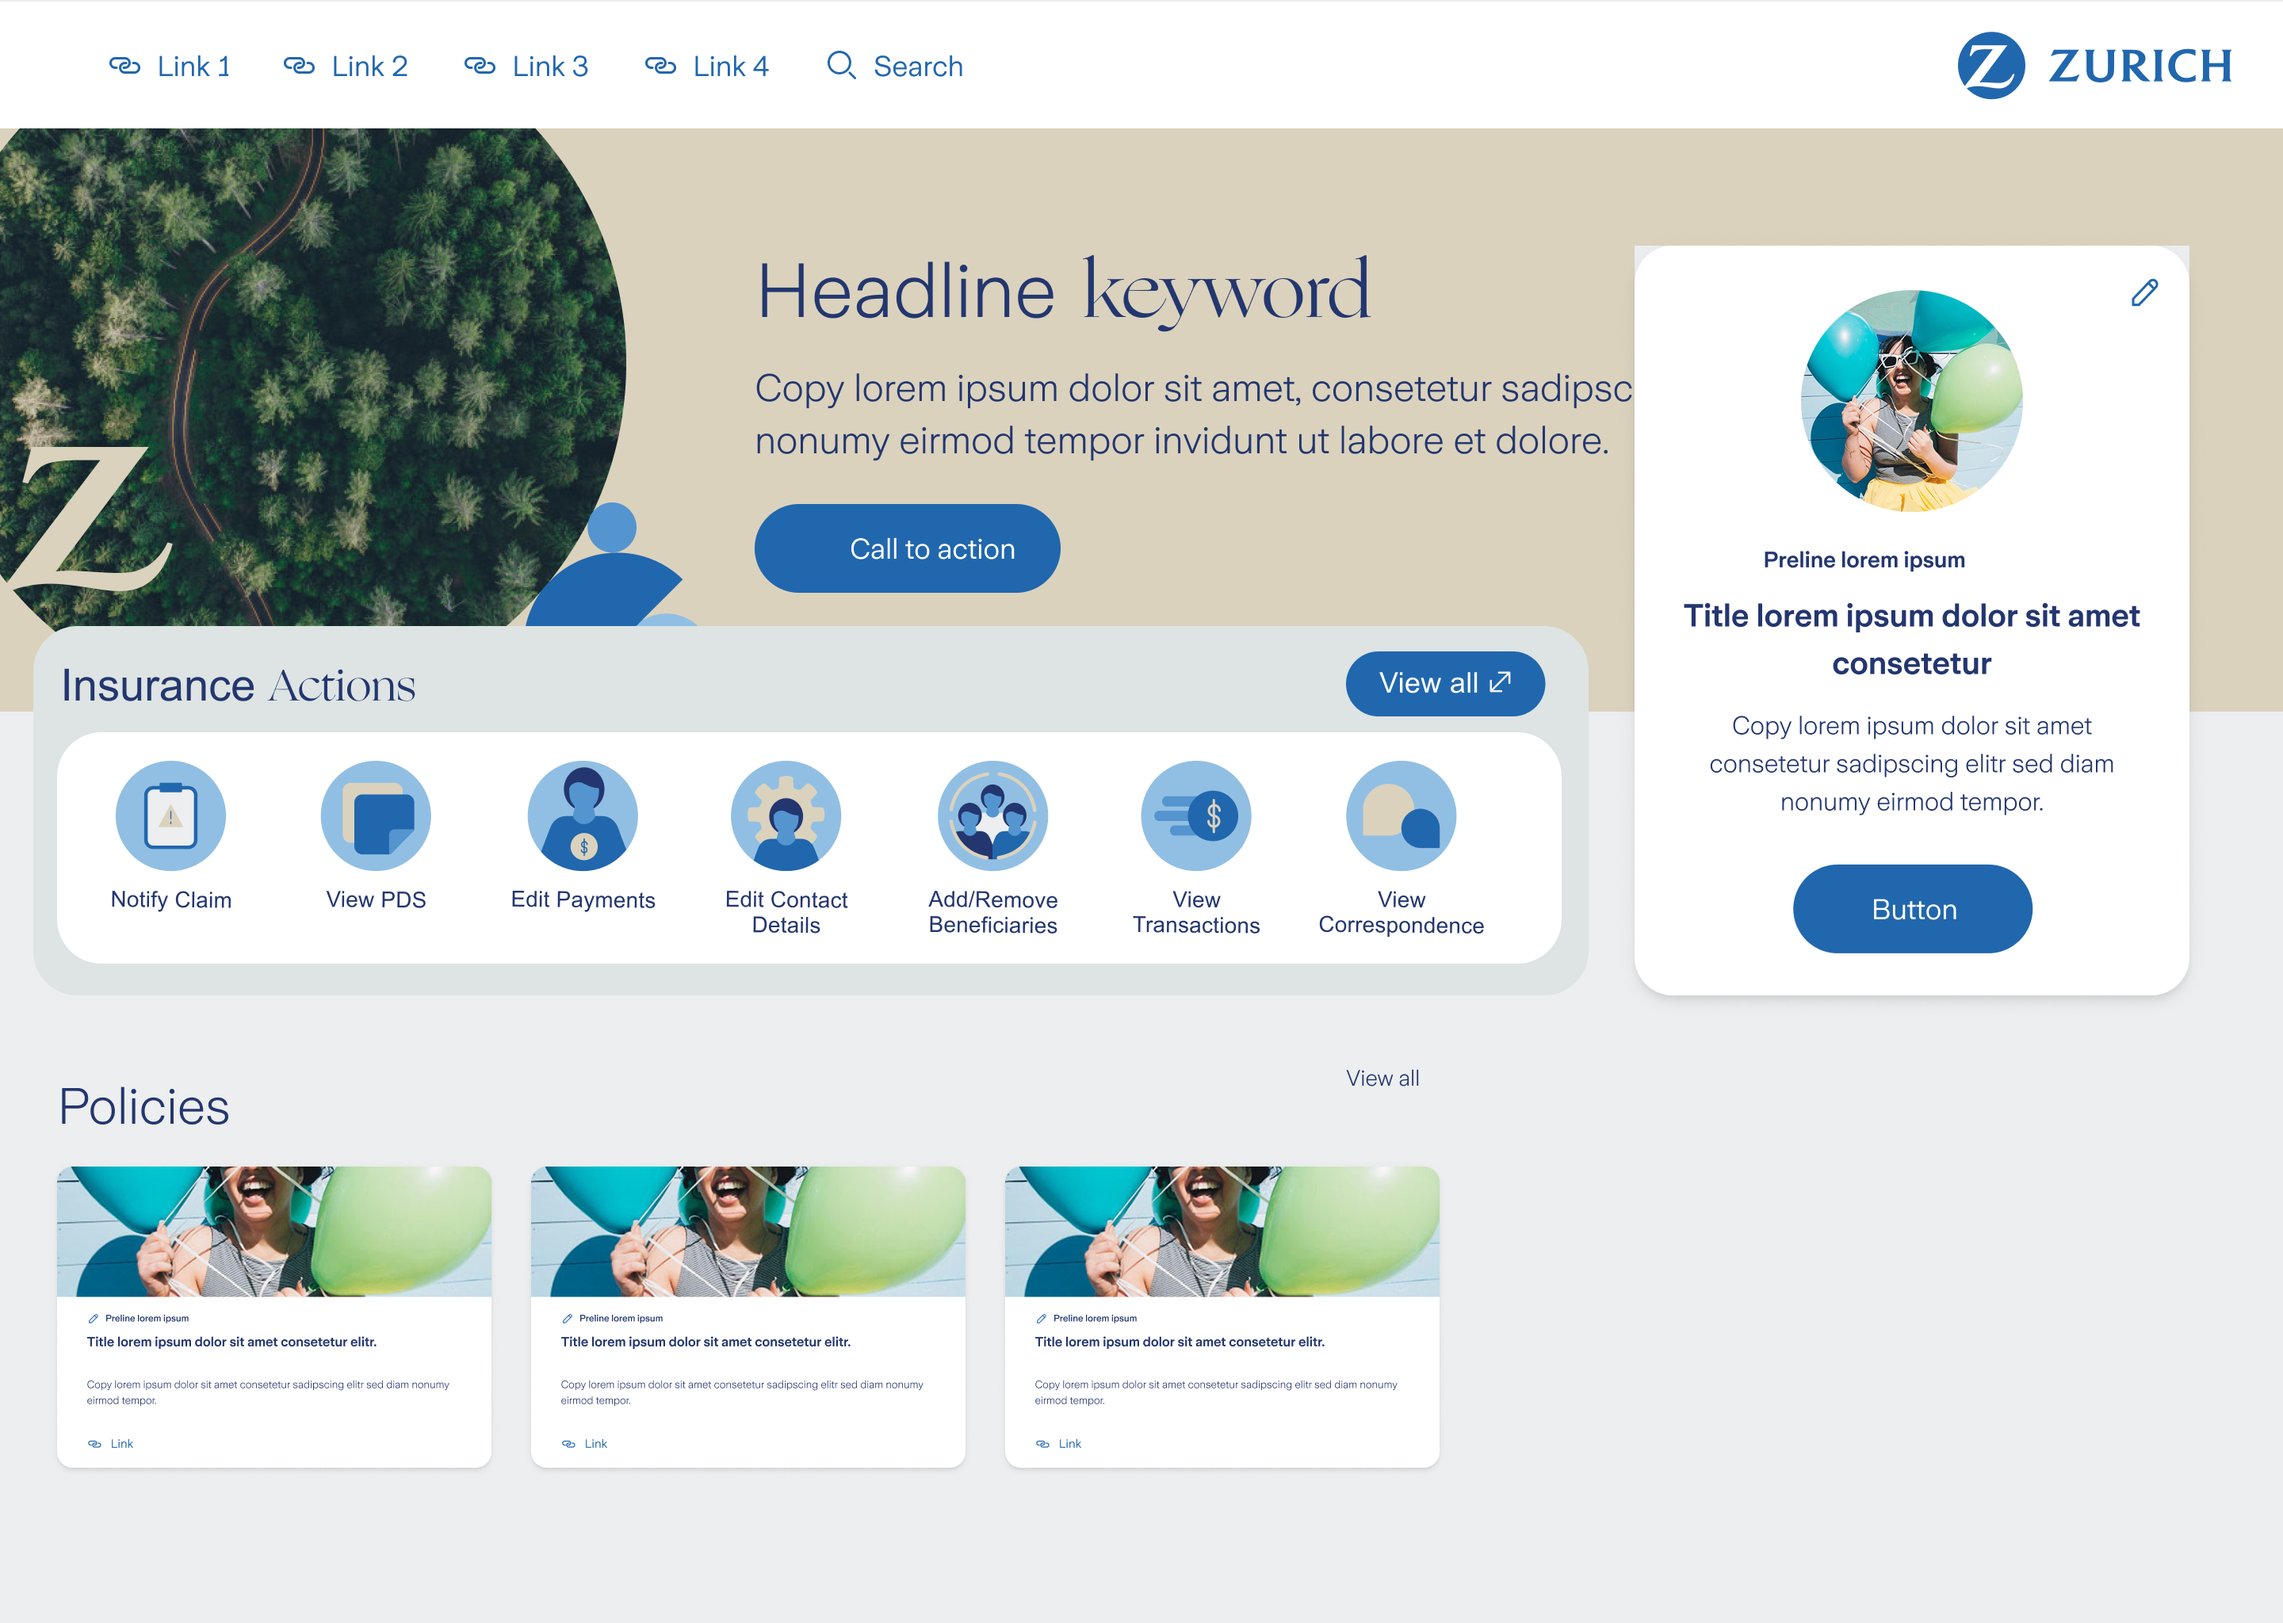
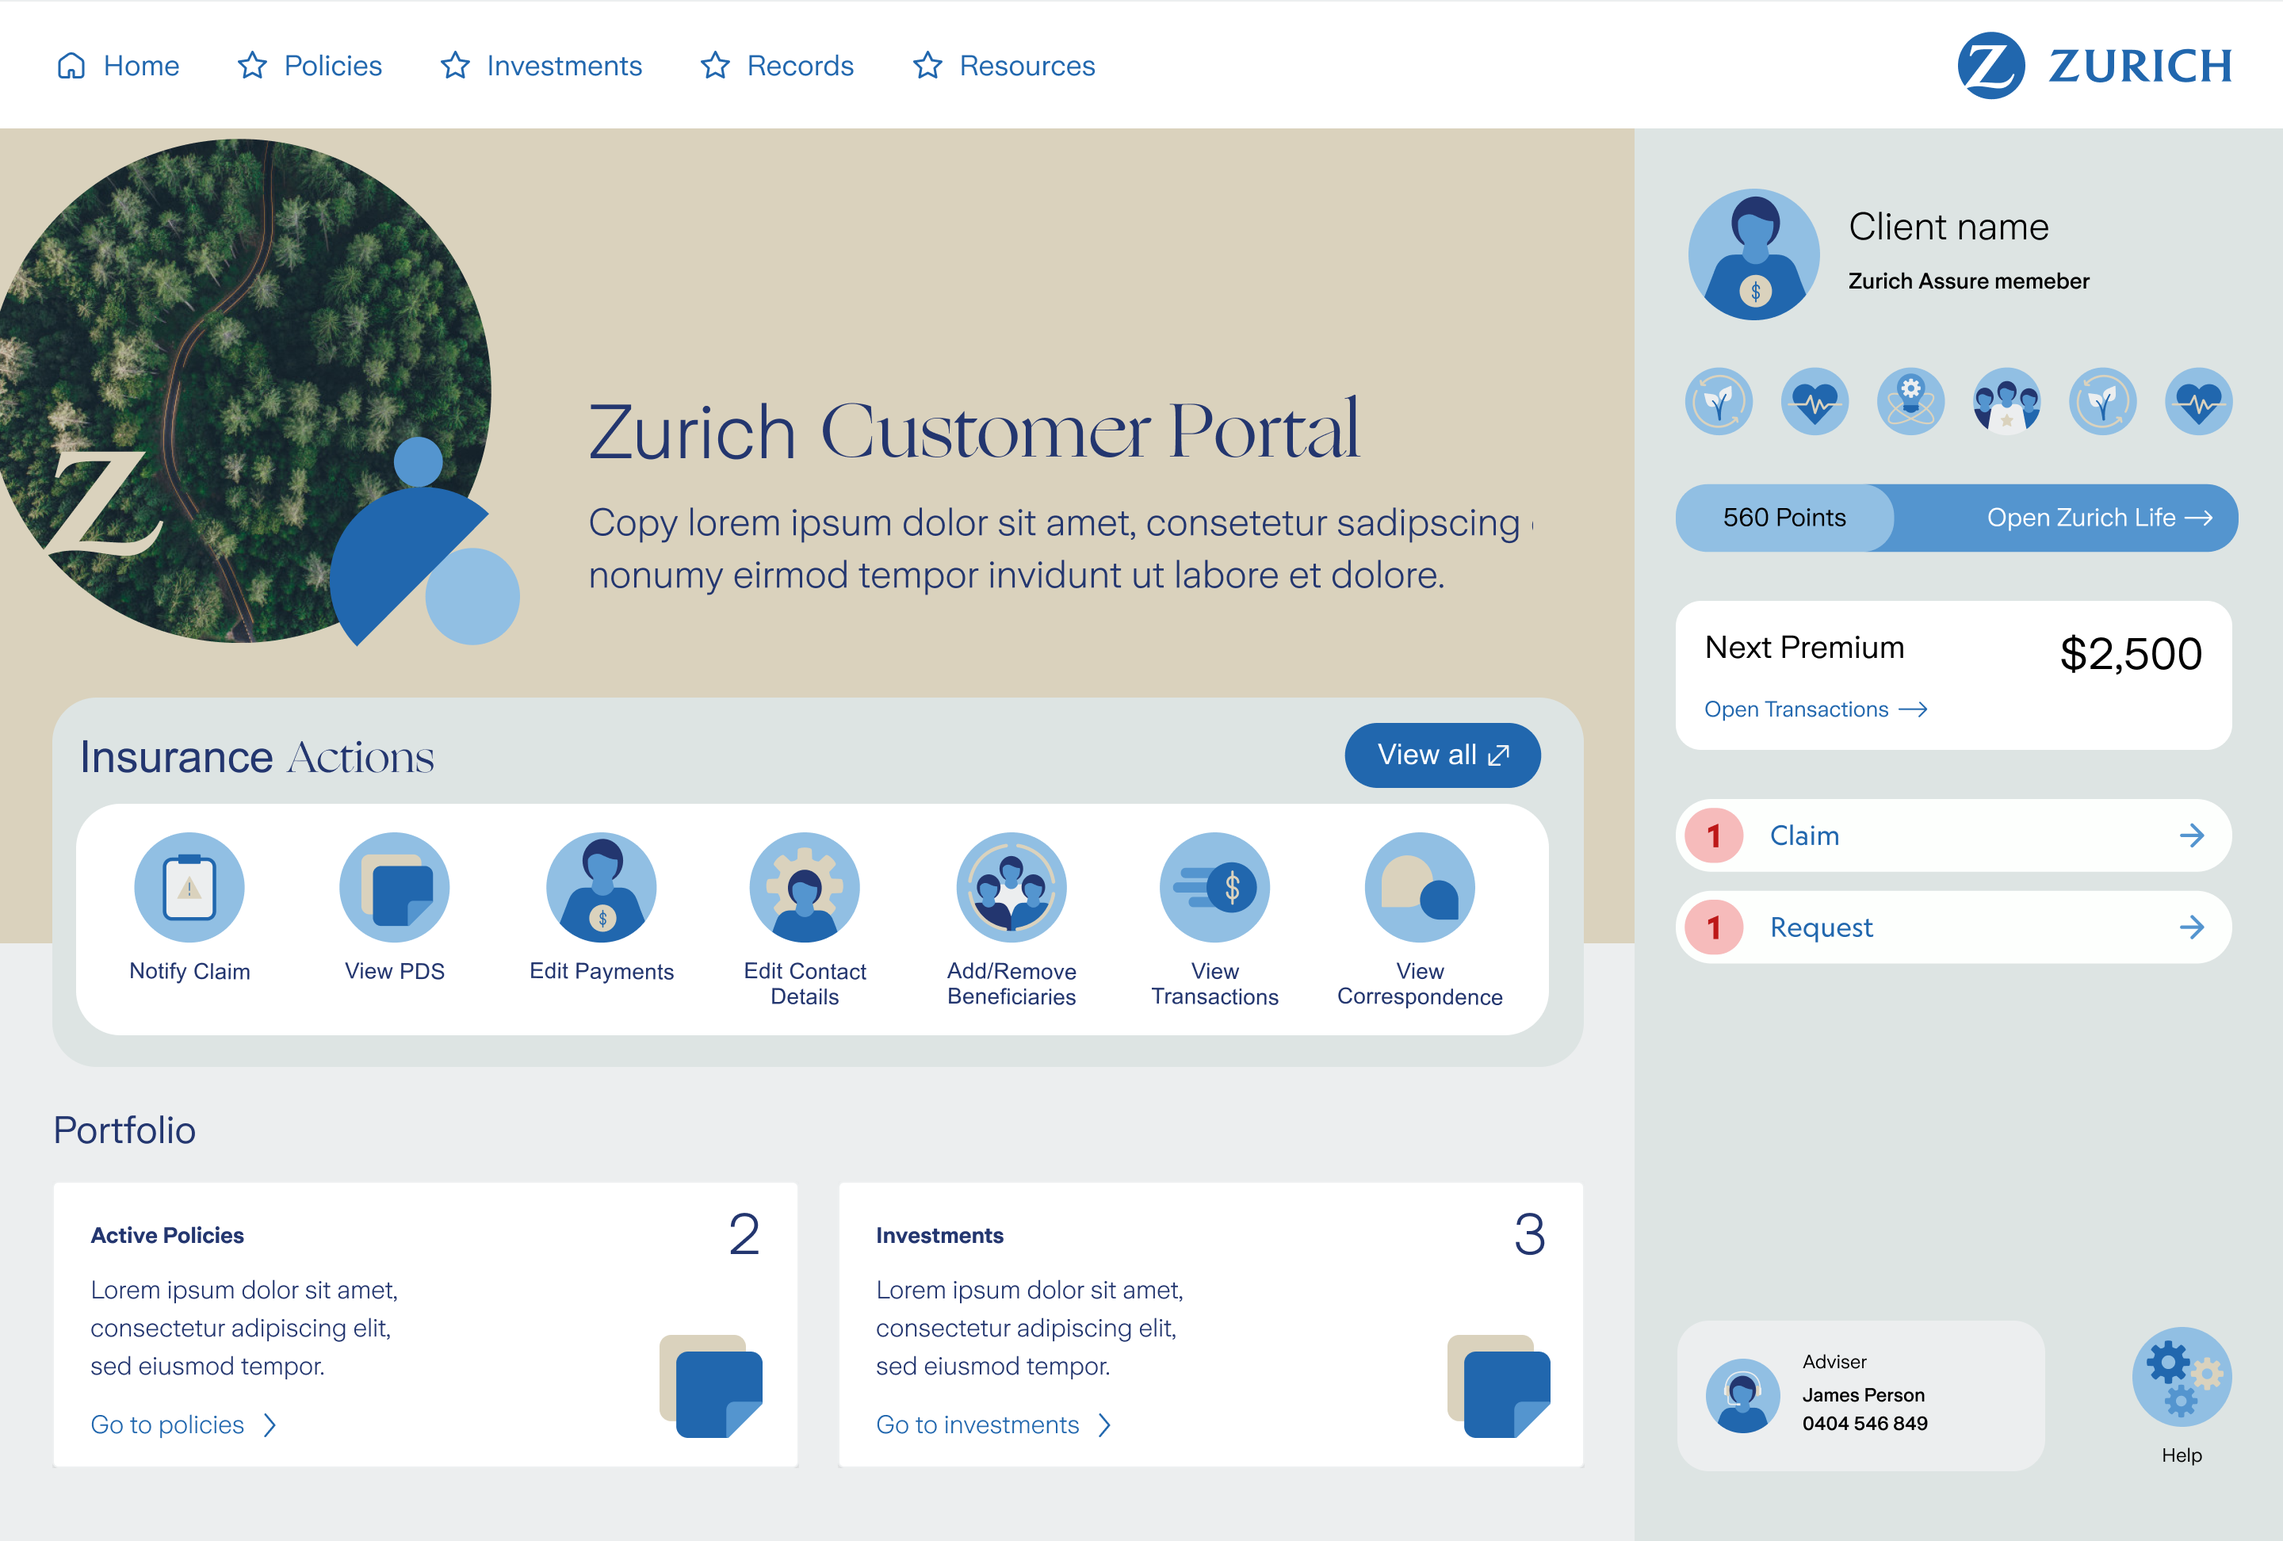
Update Zurich portal visuals and reorder homepage work grid.
Replace the client portal mockup with the full-resolution concept, preserve its aspect ratio on grid and gallery views, and swap Migrate with Recertifications plus Recycle Assist with Insurance Dashboard.

diff --git a/index.html b/index.html
@@ -50,7 +50,7 @@
  <section class="work" id="work">
  <div class="work__inner">
 
- <a href="work/recertifications/index.html" class="block block--case-study reveal" data-hover-color="#6f56cc">
+ <a href="work/zilo-migrate/index.html" class="block block--case-study reveal" data-hover-color="#6f56cc">
  <div class="block__meta">
  <span class="block__label">ZILO · Migrate</span>
  <span class="block__type">Case study</span>
@@ -58,14 +58,14 @@
  <div class="block__body">
  <div class="block__media">
  <div class="block__frame block__frame--case block__frame--swap">
- <img class="block__frame__img block__frame__img--default" src="images/work-grid/recertifications.png" alt="User Recertifications, user management dashboard">
- <img class="block__frame__img block__frame__img--hover" src="images/work-grid/hover/recertifications.png" alt="" aria-hidden="true">
+ <img class="block__frame__img block__frame__img--default" src="images/work-grid/zilo-migrate.png" alt="ZILO Migrate, AI-assisted data migration dashboard">
+ <img class="block__frame__img block__frame__img--hover" src="images/work-grid/hover/zilo-migrate.png" alt="" aria-hidden="true">
  </div>
  </div>
  <div class="block__copy">
  <p class="block__brand">ZILO</p>
- <h2 class="block__title">User recertifications</h2>
-              <p class="block__desc">A compliance workflow for ZILO Invest team admins.</p>
+ <h2 class="block__title">Migrate</h2>
+              <p class="block__desc">An AI assisted data migration platform for fintech teams.</p>
  </div>
  </div>
  </a>
@@ -86,16 +86,16 @@
  </div>
  </a>
 
- <a href="work/galleries/insurance-dashboard/index.html" class="block block--gallery reveal" data-hover-color="#ffcf00">
+ <a href="work/galleries/recycle-assist/index.html" class="block block--gallery reveal" data-hover-color="#38b186">
  <div class="block__meta">
- <span class="block__label">Hostplus · Insurance dashboard</span>
+ <span class="block__label">Recycle Assist · Mobile App</span>
  <span class="block__type">Gallery</span>
  </div>
  <div class="block__body block__body--gallery">
  <div class="block__media">
- <div class="block__frame block__frame--wide block__frame--swap">
- <img class="block__frame__img block__frame__img--default" src="images/work-grid/hostplus-insurance.png" alt="Insurance Dashboard, responsive member dashboard">
- <img class="block__frame__img block__frame__img--hover" src="images/work-grid/hover/hostplus-insurance.png" alt="" aria-hidden="true">
+ <div class="block__frame block__frame--phone block__frame--swap block__frame--hover-scale-3">
+ <img class="block__frame__img block__frame__img--default" src="images/work-grid/recycle-assist.png" alt="Recycle Assist, mobile app design">
+ <img class="block__frame__img block__frame__img--hover" src="images/work-grid/hover/recycle-assist.png" alt="" aria-hidden="true">
  </div>
  </div>
  </div>
@@ -122,22 +122,22 @@
  </div>
  </a>
 
- <a href="work/zilo-migrate/index.html" class="block block--case-study block--case-study-reverse reveal" data-hover-color="#6f56cc">
+ <a href="work/recertifications/index.html" class="block block--case-study block--case-study-reverse reveal" data-hover-color="#6f56cc">
  <div class="block__meta">
- <span class="block__label">ZILO · Migrate</span>
+ <span class="block__label">ZILO · User Recertifications</span>
  <span class="block__type">Case study</span>
  </div>
  <div class="block__body">
  <div class="block__media">
  <div class="block__frame block__frame--case block__frame--swap">
- <img class="block__frame__img block__frame__img--default" src="images/work-grid/zilo-migrate.png" alt="ZILO Migrate, AI-assisted data migration dashboard">
- <img class="block__frame__img block__frame__img--hover" src="images/work-grid/hover/zilo-migrate.png" alt="" aria-hidden="true">
+ <img class="block__frame__img block__frame__img--default" src="images/work-grid/recertifications.png" alt="User Recertifications, user management dashboard">
+ <img class="block__frame__img block__frame__img--hover" src="images/work-grid/hover/recertifications.png" alt="" aria-hidden="true">
  </div>
  </div>
  <div class="block__copy">
  <p class="block__brand">ZILO</p>
- <h2 class="block__title">Migrate</h2>
-              <p class="block__desc">An AI assisted data migration platform for fintech teams.</p>
+ <h2 class="block__title">User recertifications</h2>
+              <p class="block__desc">A compliance workflow for ZILO Invest team admins.</p>
  </div>
  </div>
  </a>
@@ -158,16 +158,16 @@
  </div>
  </a>
 
- <a href="work/galleries/recycle-assist/index.html" class="block block--gallery reveal" data-hover-color="#38b186">
+ <a href="work/galleries/insurance-dashboard/index.html" class="block block--gallery reveal" data-hover-color="#ffcf00">
  <div class="block__meta">
- <span class="block__label">Recycle Assist · Mobile App</span>
+ <span class="block__label">Hostplus · Insurance dashboard</span>
  <span class="block__type">Gallery</span>
  </div>
  <div class="block__body block__body--gallery">
  <div class="block__media">
- <div class="block__frame block__frame--phone block__frame--swap block__frame--hover-scale-3">
- <img class="block__frame__img block__frame__img--default" src="images/work-grid/recycle-assist.png" alt="Recycle Assist, mobile app design">
- <img class="block__frame__img block__frame__img--hover" src="images/work-grid/hover/recycle-assist.png" alt="" aria-hidden="true">
+ <div class="block__frame block__frame--wide block__frame--swap">
+ <img class="block__frame__img block__frame__img--default" src="images/work-grid/hostplus-insurance.png" alt="Insurance Dashboard, responsive member dashboard">
+ <img class="block__frame__img block__frame__img--hover" src="images/work-grid/hover/hostplus-insurance.png" alt="" aria-hidden="true">
  </div>
  </div>
  </div>
@@ -197,7 +197,7 @@
  </div>
  <div class="block__body block__body--gallery">
  <div class="block__media">
- <div class="block__frame block__frame--wide block__frame--swap">
+ <div class="block__frame block__frame--wide block__frame--swap block__frame--aspect-portal">
  <img class="block__frame__img block__frame__img--default" src="images/work-grid/zurich-customer-dashboard.png" alt="Zurich Client Portal, customer dashboard">
  <img class="block__frame__img block__frame__img--hover" src="images/work-grid/hover/zurich-customer-dashboard.png" alt="" aria-hidden="true">
  </div>

diff --git a/css/style.css b/css/style.css
@@ -581,6 +581,19 @@ a.block {
   top: 0;
 }
 
+.block__frame--aspect-portal {
+  height: auto;
+  aspect-ratio: 2880 / 1944;
+}
+
+.block__frame--wide.block__frame--aspect-portal {
+  height: auto;
+}
+
+.block__frame--swap.block__frame--aspect-portal .block__frame__img--default {
+  object-fit: contain;
+}
+
 .block.is-hover .block__frame,
 .block:focus-visible .block__frame {
   transform: scale(1.06);
@@ -1645,6 +1658,13 @@ body.case-open {
   border-radius: 12px;
 }
 
+.gallery-page__image--portal {
+  width: 100%;
+  height: auto;
+  aspect-ratio: 2880 / 1944;
+  object-fit: contain;
+}
+
 .gallery-page__image--fading {
   opacity: 0;
 }
@@ -1941,6 +1961,10 @@ body.has-floating-cursor .gallery-lightbox__backdrop {
     width: min(350px, 100%);
     height: auto;
     aspect-ratio: 350 / 250;
+  }
+
+  .block__frame--wide.block__frame--aspect-portal {
+    aspect-ratio: 2880 / 1944;
   }
 
   .block__desc {

diff --git a/work/galleries/zurich-client-portal/index.html b/work/galleries/zurich-client-portal/index.html
@@ -35,7 +35,7 @@
 
  <div class="gallery-page__viewer gallery-page__viewer--single" data-gallery-viewer data-gallery-single>
  <figure class="gallery-page__screen gallery-page__screen--single">
- <img class="gallery-page__image gallery-page__image--wide" src="../../../images/galleries/zurich-client-portal/dashboard.png" alt="Zurich Client Portal customer dashboard">
+ <img class="gallery-page__image gallery-page__image--wide gallery-page__image--portal" src="../../../images/galleries/zurich-client-portal/dashboard.png" alt="Zurich Client Portal customer dashboard" width="2880" height="1944">
  </figure>
  </div>
  </div>

diff --git a/README.md b/README.md
@@ -21,4 +21,4 @@ Then visit [http://localhost:8080](http://localhost:8080).
 ## Customise
 
 - Update the email address in `index.html` (currently `jackalexmorgan@gmail.com`)
-- Add `resume.pdf` to the project root for the resume nav link
+- Resume PDF/DOCX and build scripts live in `resumes/` (gitignored; regenerate with `python3 build-resume-docx.py` or `build-resume-pdf.py` from `resumes/scripts/`)
